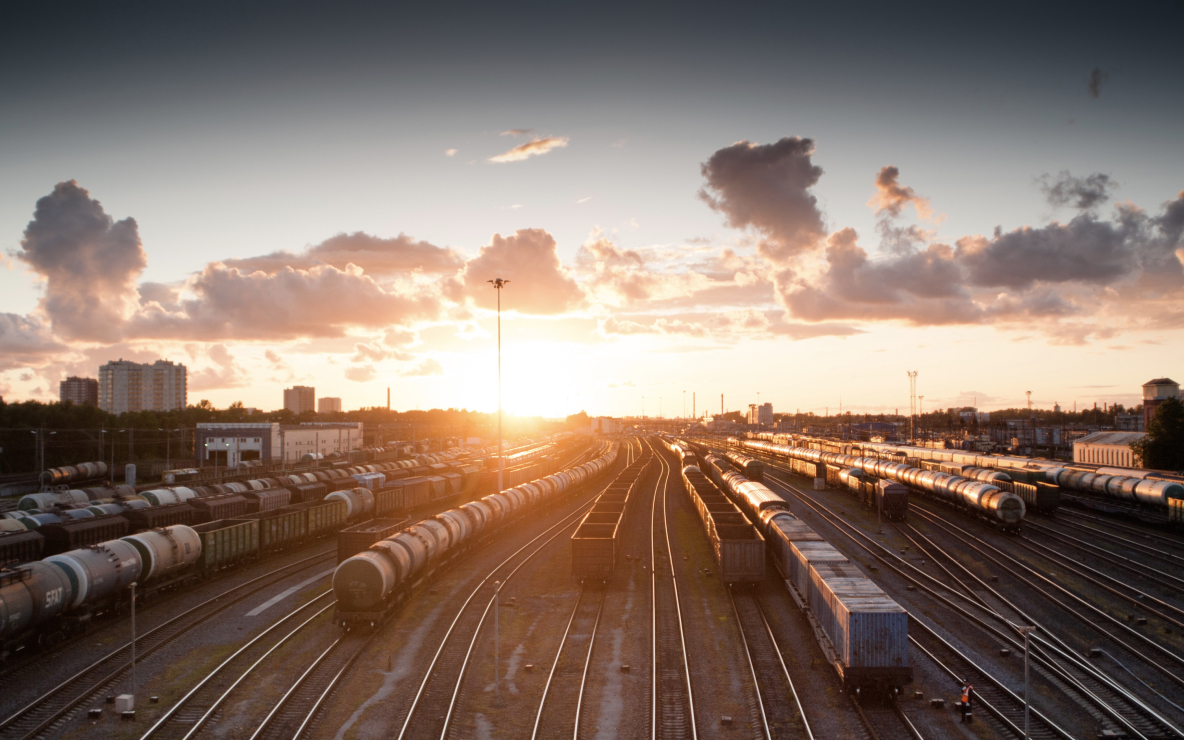
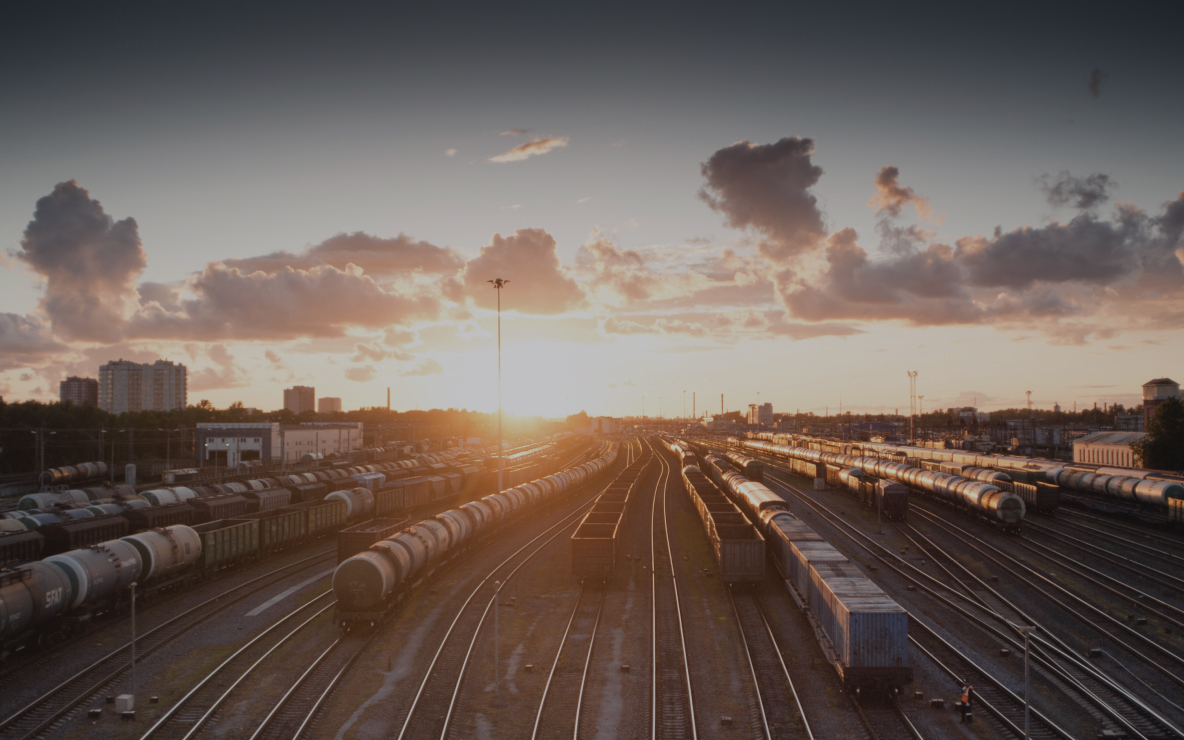
настройка ссылок

diff --git a/index.html b/index.html
@@ -62,7 +62,7 @@
       <img src="./images/kosa.jpg" alt="" class="place__image">
       <div class="place__website">
         <p class="place__url-heading">URL</p>
-        <a href="" class="place__link">park-kosa.ru</a>
+        <a href="http://park-kosa.ru" class="place__link" target="_blank">park-kosa.ru</a>
       </div>
       <div class="palce__parahraphs">
         <p class="place__paragraph">Здесь, посреди лесов и&nbsp;песчаных дюн, вы&nbsp;сможете увидеть два водных
@@ -80,7 +80,8 @@
       <img src="./images/kolskij.jpg" alt="" class="place__image">
       <div class="place__website">
         <p class="place__url-heading">URL</p>
-        <a href="" class="place__link">National Geographic</a>
+        <a href="https://yourshot.nationalgeographic.com/photos/?keywords=kolskiy" class="place__link"
+          target="_blank">National Geographic</a>
       </div>
       <div class="palce__parahraphs">
         <p class="place__paragraph">Почти весь полуостров находится за Полярным кругом. Саамская тундра, от которой на
@@ -98,7 +99,7 @@
       <img src="./images/altay.jpg" alt="" class="place__image">
       <div class="place__website">
         <p class="place__url-heading">URL</p>
-        <a href="" class="place__link">YouTube
+        <a href="https://www.youtube.com/watch?v=7ZEsoV7kWAQ" class="place__link" target="_blank">YouTube
         </a>
       </div>
       <div class="palce__parahraphs">
@@ -117,14 +118,17 @@
       <img src="./images/baykal.png" alt="" class="place__image">
       <div class="place__website">
         <p class="place__url-heading">URL</p>
-        <a href="" class="place__link">https://vk.com/baikalmile</a>
+        <a href="https://vk.com/baikalmile" class="place__link" target="_blank">https://vk.com/baikalmile</a>
       </div>
       <div class="palce__parahraphs">
         <p class="place__paragraph">Всем известен Байкал как крупнейшее озеро
           в мире. Многие также знают, что это самый большой источник пресной воды и одно из красивейших мест в России.
         </p>
-        <p class="place__paragraph">Конечно, это всё так. Но&nbsp;Байкал ещё идеальное место для соревнований по&nbsp;скийорингу. Это такой вид спорта, когда лыжник привязывает себя
-          к&nbsp;мотоциклу, и&nbsp;тандем старается развить как можно б&oacute;льшую скорость на&nbsp;льду. В&nbsp;марте 2019 года на&nbsp;фестивале &laquo;Байкальская миля&raquo; был поставлен мировой рекорд&nbsp;&mdash; 197.011&nbsp;км/ч.</p>
+        <p class="place__paragraph">Конечно, это всё так. Но&nbsp;Байкал ещё идеальное место для соревнований
+          по&nbsp;скийорингу. Это такой вид спорта, когда лыжник привязывает себя
+          к&nbsp;мотоциклу, и&nbsp;тандем старается развить как можно б&oacute;льшую скорость на&nbsp;льду. В&nbsp;марте
+          2019 года на&nbsp;фестивале &laquo;Байкальская миля&raquo; был поставлен мировой рекорд&nbsp;&mdash;
+          197.011&nbsp;км/ч.</p>
       </div>
     </div>
     <div class="place">
@@ -132,7 +136,7 @@
       <img src="./images/karelia.jpg" alt="" class="place__image">
       <div class="place__website">
         <p class="place__url-heading">URL</p>
-        <a href="" class="place__link">http://vodlozero.ru/</a>
+        <a href="http://vodlozero.ru" class="place__link" target="_blank">http://vodlozero.ru/</a>
       </div>
       <div class="palce__parahraphs">
         <p class="place__paragraph">Сибирь заканчивается не&nbsp;на&nbsp;Урале, а&nbsp;в&nbsp;Карелии: образующая тайгу
@@ -146,7 +150,7 @@
     </div>
   </section>
   <secton class="cover">
-    <a href="" class="cover__link">
+    <a href="https://stampsy.com/na-elektrichkakh-do-baikala" class="cover__link" target="_blank">
       <h2 class="cover__title">До&nbsp;Байкала
         &laquo;на&nbsp;собаках&raquo;</h2>
       <p class="cover__subtitle">По мотивам учебной темы
@@ -157,11 +161,11 @@
   </secton>
   <footer class="footer">
     <ul class="footer__links">
-      <li class="footer__link-item"><a href="" class="footer__link">Карты</a></li>
-      <li class="footer__link-item"><a href="" class="footer__link">Погода</a></li>
-      <li class="footer__link-item"><a href="" class="footer__link">Расписание</a></li>
-      <li class="footer__link-item"><a href="" class="footer__link">Календарь</a></li>
-      <li class="footer__link-item"><a href="" class="footer__link">Путешествия</a></li>
+      <li class="footer__link-item"><a href="https://yandex.ru/maps" class="footer__link" target="_blank">Карты</a></li>
+      <li class="footer__link-item"><a href="https://yandex.ru/pogoda" class="footer__link" target="_blank">Погода</a></li>
+      <li class="footer__link-item"><a href="https://rasp.yandex.ru" class="footer__link" target="_blank">Расписание</a></li>
+      <li class="footer__link-item"><a href="https://calendar.yandex.ru" class="footer__link" target="_blank">Календарь</a></li>
+      <li class="footer__link-item"><a href="https://travel.yandex.ru" class="footer__link" target="_blank">Путешествия</a></li>
     </ul>
     <p class="footer__copyright">&#169; 2022. Сыромятников Денис</p>
   </footer>

diff --git a/style.css b/style.css
@@ -263,18 +263,10 @@
 }
 
 .cover {
-  /* margin: 0 0;
-  width: 92.5000%;
-  display: flex;
-  background-image: url(./images/overlay.jpg);
-  background-position: center;
-  flex-direction: column;
-  align-items: center; */
   margin: 0 auto;
   width: 92.5%;
   background-image: url(./images/overlay.jpg);
   background-position: center center;
-  /* background: rgba(42, 44, 47, 0.3); */
   background-size: cover;
 }
 
@@ -344,8 +336,12 @@
   font-size: 16px;
   line-height: 18px;
   /* identical to box height, or 112% */
-
+  transition: opacity 0.3s linear;
   color: #ffffff;
+}
+
+.footer__link:hover {
+  opacity: 0.8;
 }
 
 .footer__copyright {
@@ -446,9 +442,6 @@
     margin: 0 auto;
   }
 
-  .intro__subtitle {
-  }
-
   .photo-grid {
     width: 93.75%;
     grid-template-columns: repeat(2, 48.8888888888889%); /* ИЗМЕНЕНО 300px */
@@ -499,7 +492,6 @@
 
   .footer {
     padding-top: 88px;
-    width: ;
   }
 }
 /* ================================================================================ */
